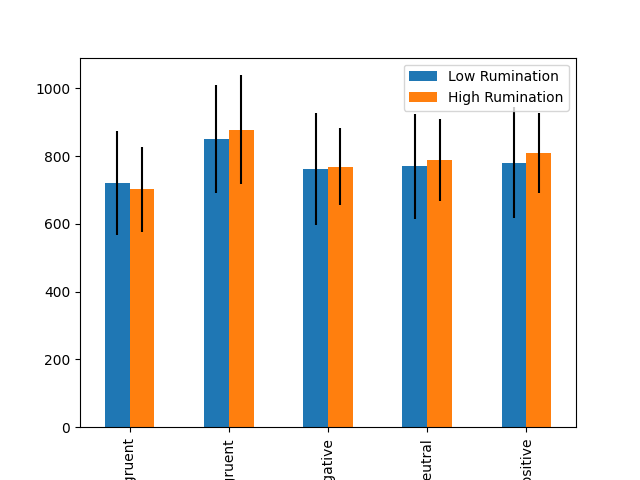
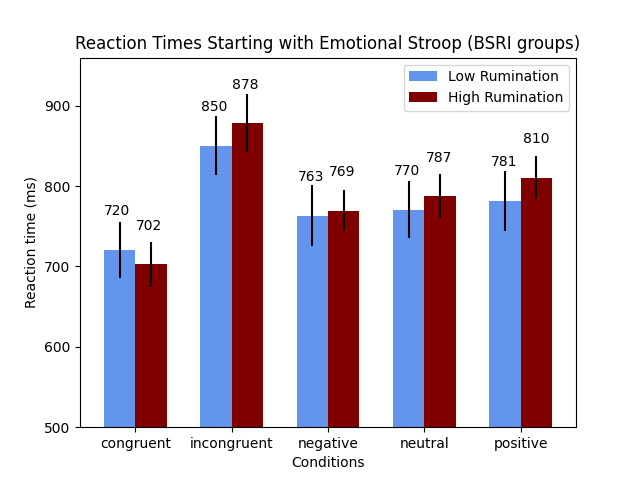
added rumination group average scores

diff --git a/analyze.py b/analyze.py
@@ -84,21 +84,21 @@ sds = [standard_trait_sd, standard_state_sd, emotion_trait_sd, emotion_state_sd]
 
 block_labels = [['Standard', 'RRS'], ['Standard', 'BSRI'], ['Emotional', 'RRS'], ['Emotional', 'BSRI']]
 
-# # Started with standard Stroop graph
-# for block in range(len(means)):
-#     mean = means[block]
-#     sd = sds[block]
-#     block_label = block_labels[block]
-#     ax = mean.plot(x='Conditions', y = ['Low Rumination', 'High Rumination'], kind = 'bar', yerr=sd, rot = 0, color=['cornflowerblue', 'maroon'], width=0.65)
-#     plt.ylim(bottom=500) # limit y-min to see differences better
-#     # add bar values
-#     for i, p in enumerate(ax.patches):
-#         ax.annotate(str(int(p.get_height())), (p.get_x() * 1.005, p.get_height() + 43))
-#     plt.ylabel('Reaction time (ms)')
-#     plt.title(f'Reaction Times Starting with {block_label[0]} Stroop ({block_label[1]} groups)')
+# Started with standard Stroop graph
+for block in range(len(means)):
+    mean = means[block]
+    sd = sds[block]
+    block_label = block_labels[block]
+    ax = mean.plot(x='Conditions', y = ['Low Rumination', 'High Rumination'], kind = 'bar', yerr=sd, rot = 0, color=['cornflowerblue', 'maroon'], width=0.65)
+    plt.ylim(bottom=500) # limit y-min to see differences better
+    # add bar values
+    for i, p in enumerate(ax.patches):
+        ax.annotate(str(int(p.get_height())), (p.get_x() * 1.005, p.get_height() + 43))
+    plt.ylabel('Reaction time (ms)')
+    plt.title(f'Reaction Times Starting with {block_label[0]} Stroop ({block_label[1]} groups)')
 
-# # Uncomment this line to show graphs
-# # plt.show()
+# Uncomment this line to show graphs
+plt.show()
 
 ###############################################################################################################
 # Checking other factors; age and sex
@@ -199,39 +199,64 @@ df_emotion_trials = pd.DataFrame(emotion_rows, columns=columns_emotion)
 # df_emotion_trials.to_csv('stroop_emotion_trials.csv', index=False)
 
 ######################################################################################
-# Create mean_rt based on group. Mean of all conditions together, not separate like before
-# order: trait low, trait high, state low, state high
-standard_means_labels = [standard_first_trait_low_mean, standard_first_trait_high_mean, standard_first_state_low_mean, standard_first_state_high_mean]
-emotion_means_labels = [emotion_first_trait_low_mean, emotion_first_trait_high_mean, emotion_first_state_low_mean, emotion_first_state_high_mean]   
-standard_group_means = [groupmean.mean() for groupmean in standard_means_labels]
-emotion_group_means = [groupmean.mean() for groupmean in emotion_means_labels]
+# Create mean rumination scores per counterbalancing group.
+# order = standard low, standard high, emotion low, emotion high
 
-# get sd
-standard_sd_labels = [standard_means.iloc[standard_first_trait_low].std(), standard_means.iloc[standard_first_trait_high].std(), standard_means.iloc[standard_first_state_low].std(), standard_means.iloc[standard_first_state_high].std()]
-emotion_sd_labels = [emotion_means.iloc[emotion_first_trait_low].std(), emotion_means.iloc[emotion_first_trait_high].std(), emotion_means.iloc[emotion_first_state_low].std(), emotion_means.iloc[emotion_first_state_high].std()]
-standard_group_stds = [groupstd.std() for groupstd in standard_sd_labels]
+# rrs groups
+rrs_group_labels = [standard_first_trait_low, standard_first_trait_high, emotion_first_trait_low, emotion_first_trait_high]
+rrs_group_means = [df.iloc[group]['rrs_sums'].mean() for group in rrs_group_labels]
+rrs_group_stds = [df.iloc[group]['rrs_sums'].std() for group in rrs_group_labels]
+# bsri groups
+bsri_group_labels = [standard_first_state_low, standard_first_state_high, emotion_first_state_low, emotion_first_state_high]
+bsri_group_means = [df.iloc[group]['bsri_sums'].mean() for group in bsri_group_labels]
+bsri_group_stds = [df.iloc[group]['bsri_sums'].std() for group in bsri_group_labels]
 
-print(standard_group_stds)
+# create data frame from data above to plot rrs groups
+rrs_df = pd.DataFrame()
+rrs_df['Rumination Level'] = ['Low', 'High']
+rrs_df['standard_first_rrs'] = [rrs_group_means[0], rrs_group_means[1]] 
+rrs_df['emotion_first_rrs'] =  [rrs_group_means[2], rrs_group_means[3]]
+rrs_df['standard_first_std'] = [rrs_group_stds[0], rrs_group_stds[1]]
+rrs_df['emotion_first_std'] =  [rrs_group_stds[2], rrs_group_stds[3]]
 
-xlabels = ["Low", "High"]
+ax = rrs_df.plot.bar(x='Rumination Level',
+                     y= ['standard_first_rrs', 'emotion_first_rrs'],
+                     yerr=rrs_df[['standard_first_std', 'emotion_first_std']].T.values,
+                     rot = 0,
+                     color=['cornflowerblue', 'maroon'], 
+                     width=0.65
+                     )
 
-low_trait = [standard_group_means[0], emotion_group_means[0]]
-high_trait = [standard_group_means[1], emotion_group_means[1]]
-low_state = [standard_group_means[2], emotion_group_means[2]]
-high_state = [standard_group_means[3], emotion_group_means[3]]
-
-x = np.arange(2) # positions for x ticks
-width = 0.27
-
-ax = plt.subplot()
-ax.bar(x, low_trait, width)
-ax.bar(x + width, high_trait, width)
-ax.set_ylabel("Mean reaction time (ms)")
-ax.set_xticks(x + width/2) # only have 2 labels
-ax.set_xticklabels(xlabels)
+for i, p in enumerate(ax.patches):
+    ax.annotate(f'{p.get_height():.2f}', (p.get_x() + 0.075, p.get_height()+ rrs_group_stds[i]+1))
+leg = ax.legend(loc='upper left')
+leg.get_texts()[0].set_text('Standard-first')
+leg.get_texts()[1].set_text('Emotion-first')
+plt.ylabel('RRS mean score')
+plt.title('Mean RRS Scores based on Rumination and Counterbalancing Group')
 plt.show()
 
+# create data frame from data above to plot bsri groups
+bsri_df = pd.DataFrame()
+bsri_df['Rumination Level'] = ['Low', 'High']
+bsri_df['standard_first_bsri'] = [bsri_group_means[0], bsri_group_means[1]] 
+bsri_df['emotion_first_bsri'] =  [bsri_group_means[2], bsri_group_means[3]]
+bsri_df['standard_first_std'] = [bsri_group_stds[0], bsri_group_stds[1]]
+bsri_df['emotion_first_std'] =  [bsri_group_stds[2], bsri_group_stds[3]]
 
+ax = bsri_df.plot.bar(x='Rumination Level',
+                     y= ['standard_first_bsri', 'emotion_first_bsri'],
+                     yerr=bsri_df[['standard_first_std', 'emotion_first_std']].T.values,
+                     rot = 0,
+                     color=['cornflowerblue', 'maroon'], 
+                     width=0.65
+                     )
 
-
-# standard_trait_low_rum_mean = standard_trait_mean['Low Rumination'].mean()
+for i, p in enumerate(ax.patches):
+    ax.annotate(f'{p.get_height():.2f}', (p.get_x() + 0.075, p.get_height()+ bsri_group_stds[i]+1))
+leg = ax.legend(loc='upper left')
+leg.get_texts()[0].set_text('Standard-first')
+leg.get_texts()[1].set_text('Emotion-first')
+plt.ylabel('BSRI mean score')
+plt.title('Mean BSRI Scores based on Rumination and Counterbalancing Group')
+plt.show()
